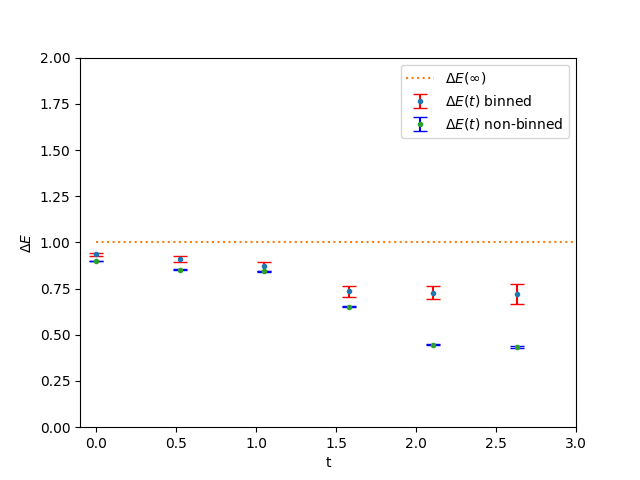
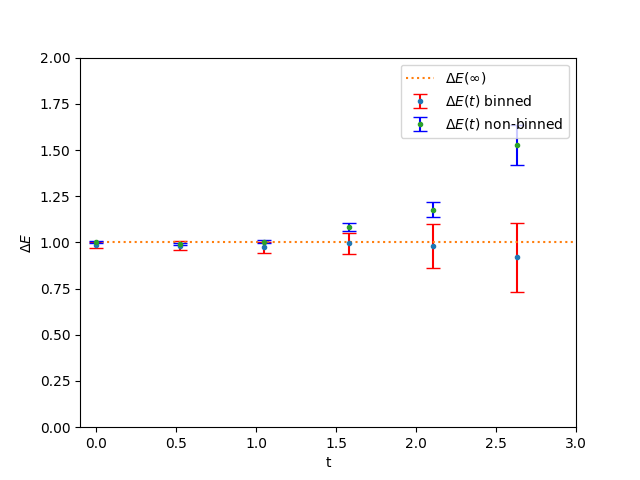
Add files via upload

diff --git a/Harmonic_Oscillator_Binned.py b/Harmonic_Oscillator_Binned.py
@@ -1,28 +1,15 @@
 import numpy as np
 import matplotlib.pyplot as plt
-from Harmonic_MC import MCAverage, DeltaE,update,getG
+from Harmonic_MC import bin, MCAverage, DeltaE,update,getG
 
 a = 0.5 #lattice spacing
 N = 20 #lattice sites
 T = a*N #total time
-t= np.linspace(0,T,N) #time axis, truncated after N/4 points for display purposes
+t= np.linspace(0,T,N) #time axis
 epsilon = 1.4 #range for updating x
 N_cor = 1 #Number of discarded updates before any evaluation of G, we run a highly-correlated one to see if binning helps
-N_cf = 1000 #total number of configurations
-binsize = int(N_cf/50) #we choose the bin size so that we have about 50 bins
-
-#The following function performs the binning of as array G in bins of size binsize. It returns
-#an array of size len(G)/binsize containing the averaged value of the elements of G in each bin.
-
-def bin (G, binsize): #function that does the binning of the array G
-    G_binned = []
-    for i in range(0,len(G),binsize):
-        G_avg = 0
-        for j in range (0, binsize):
-            if i+j<len(G):
-                G_avg += G[i+j]
-        G_binned.append(G_avg/binsize)
-    return G_binned
+N_cf = 10000 #total number of configurations
+binsize = int(N_cf/20) #we choose the bin size so that we have about 50 bins
 
 #The following function computes the MC average of G, once it has been binned. It takes as input a 2D array G,
 #the number of sites N, the update range epsilon, the number of correlated configurations N_cor
@@ -48,7 +35,7 @@ def MCAverageBin (G,N,epsilon,N_cor, N_cf, binsize,a=0.5):
             avg_G[n]+=G_bin[beta][n]  #compute the binned average
             G_errors[n] += (G_bin[beta][n])**2/N_bin #compute the binned error
         avg_G[n] = avg_G[n]/N_bin
-        G_errors[n] = (G_errors[n]-avg_G[n]**2)/N_bin
+        G_errors[n] = np.sqrt((G_errors[n]-avg_G[n]**2)/N_bin)
     return avg_G, G_errors
 
 #We compare non-binned and binned averages
@@ -57,14 +44,14 @@ g=np.zeros((N_cf,N))
 Gbin, Gbin_errors = MCAverageBin(gbin,N,epsilon,N_cor,N_cf,binsize)
 G, G_errors = MCAverage(g,N,epsilon,N_cor,N_cf)
 
-dE_bin, deltaE_bin, deltaE_bin_graph  = DeltaE(Gbin,Gbin_errors,N_cf) #compute dE and statistical error in binned case
-dE, deltaE, deltaE_graph =DeltaE(G,G_errors,N_cf) #compute dE and statistical error in non-binned case
+dE_bin, deltaE_bin  = DeltaE(Gbin,Gbin_errors,N_cf) #compute dE and statistical error in binned case
+dE, deltaE =DeltaE(G,G_errors,N_cf) #compute dE and statistical error in non-binned case
 
 
 fig = plt.figure()
-l1 = plt.errorbar(t,dE_bin,yerr= deltaE_bin_graph, ecolor = 'r', capsize=5, label=r'$\Delta E (t)$ binned', marker = '.', linestyle = 'none') #plot the binned numerical propagator
+l1 = plt.errorbar(t,dE_bin,yerr= deltaE_bin, ecolor = 'r', capsize=5, label=r'$\Delta E (t)$ binned', marker = '.', linestyle = 'none') #plot the binned numerical propagator
 l2 = plt.plot(t,np.ones(N), label = r'$\Delta E(\infty)$', linestyle = 'dotted') #asymptotic value of dE
-l3 = plt.errorbar(t,dE,yerr= deltaE_graph, ecolor = 'b', capsize=5, label=r'$\Delta E (t)$ non-binned', marker = '.', linestyle = 'none') #plot the non-binned numerical propagator
+l3 = plt.errorbar(t,dE,yerr= deltaE, ecolor = 'b', capsize=5, label=r'$\Delta E (t)$ non-binned', marker = '.', linestyle = 'none') #plot the non-binned numerical propagator
 plt.axis([-0.1,3,0,2])
 plt.xlabel('t')
 plt.ylabel('$\Delta E$')
